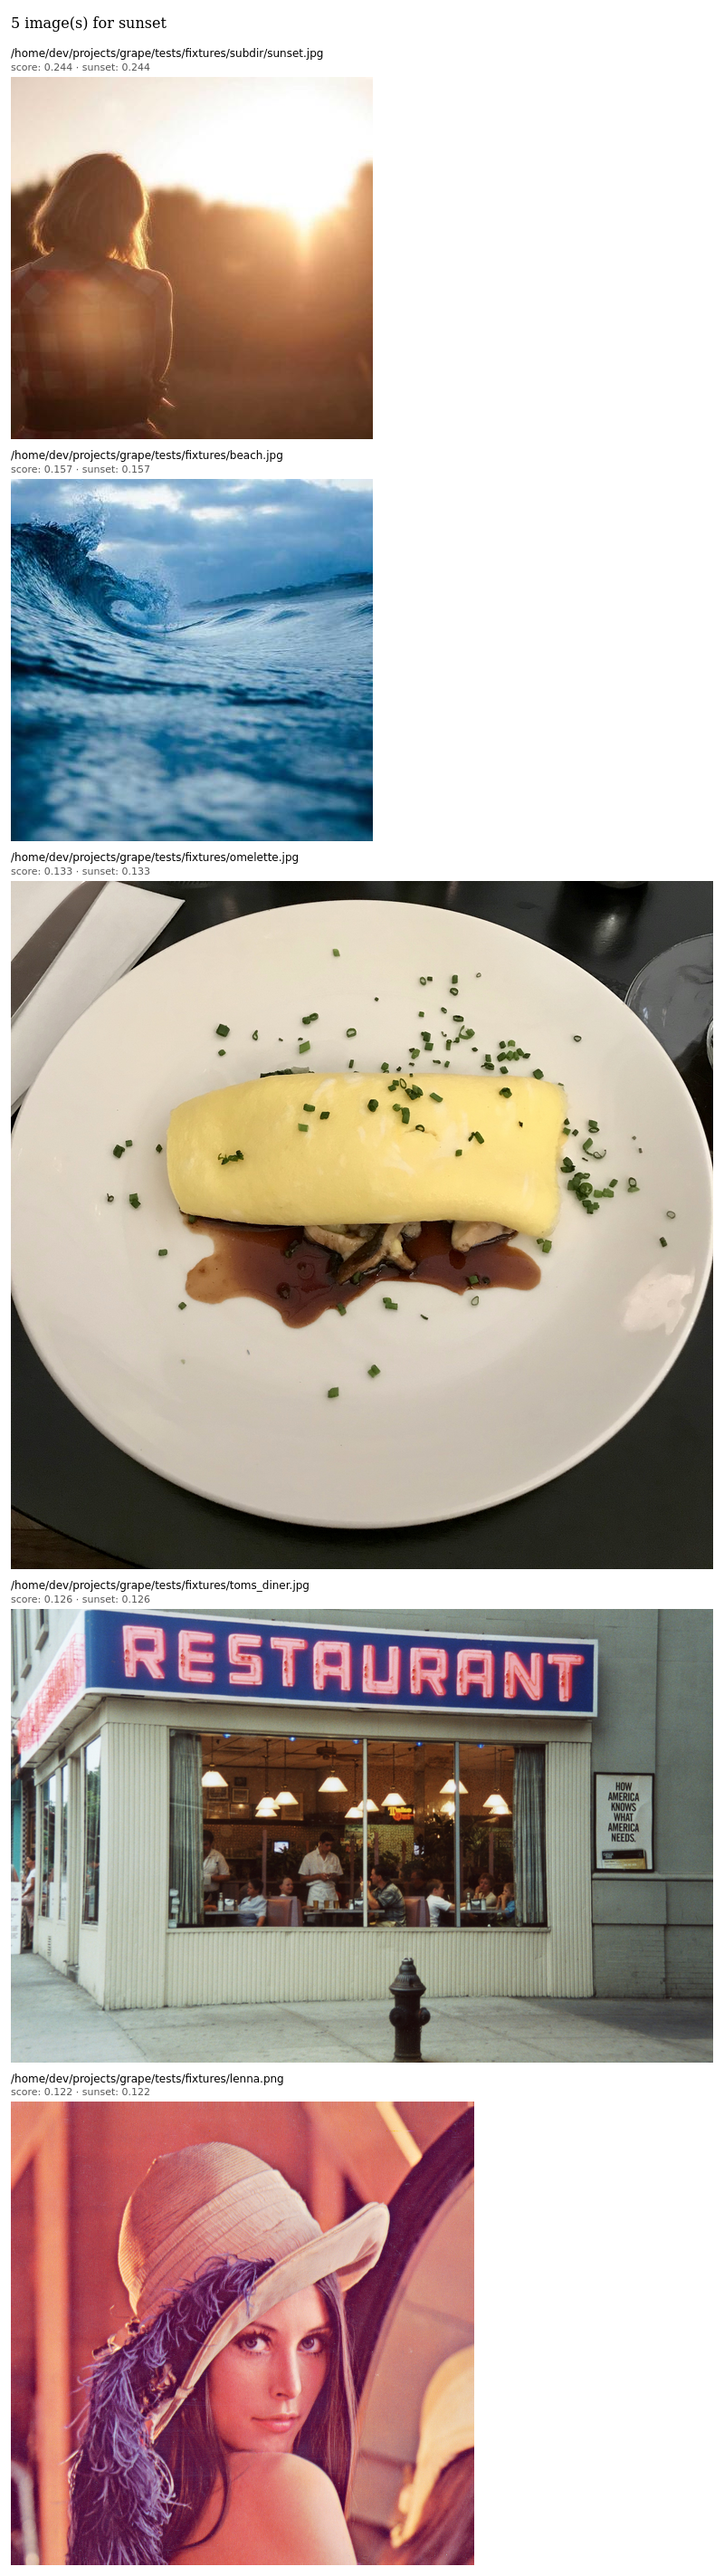
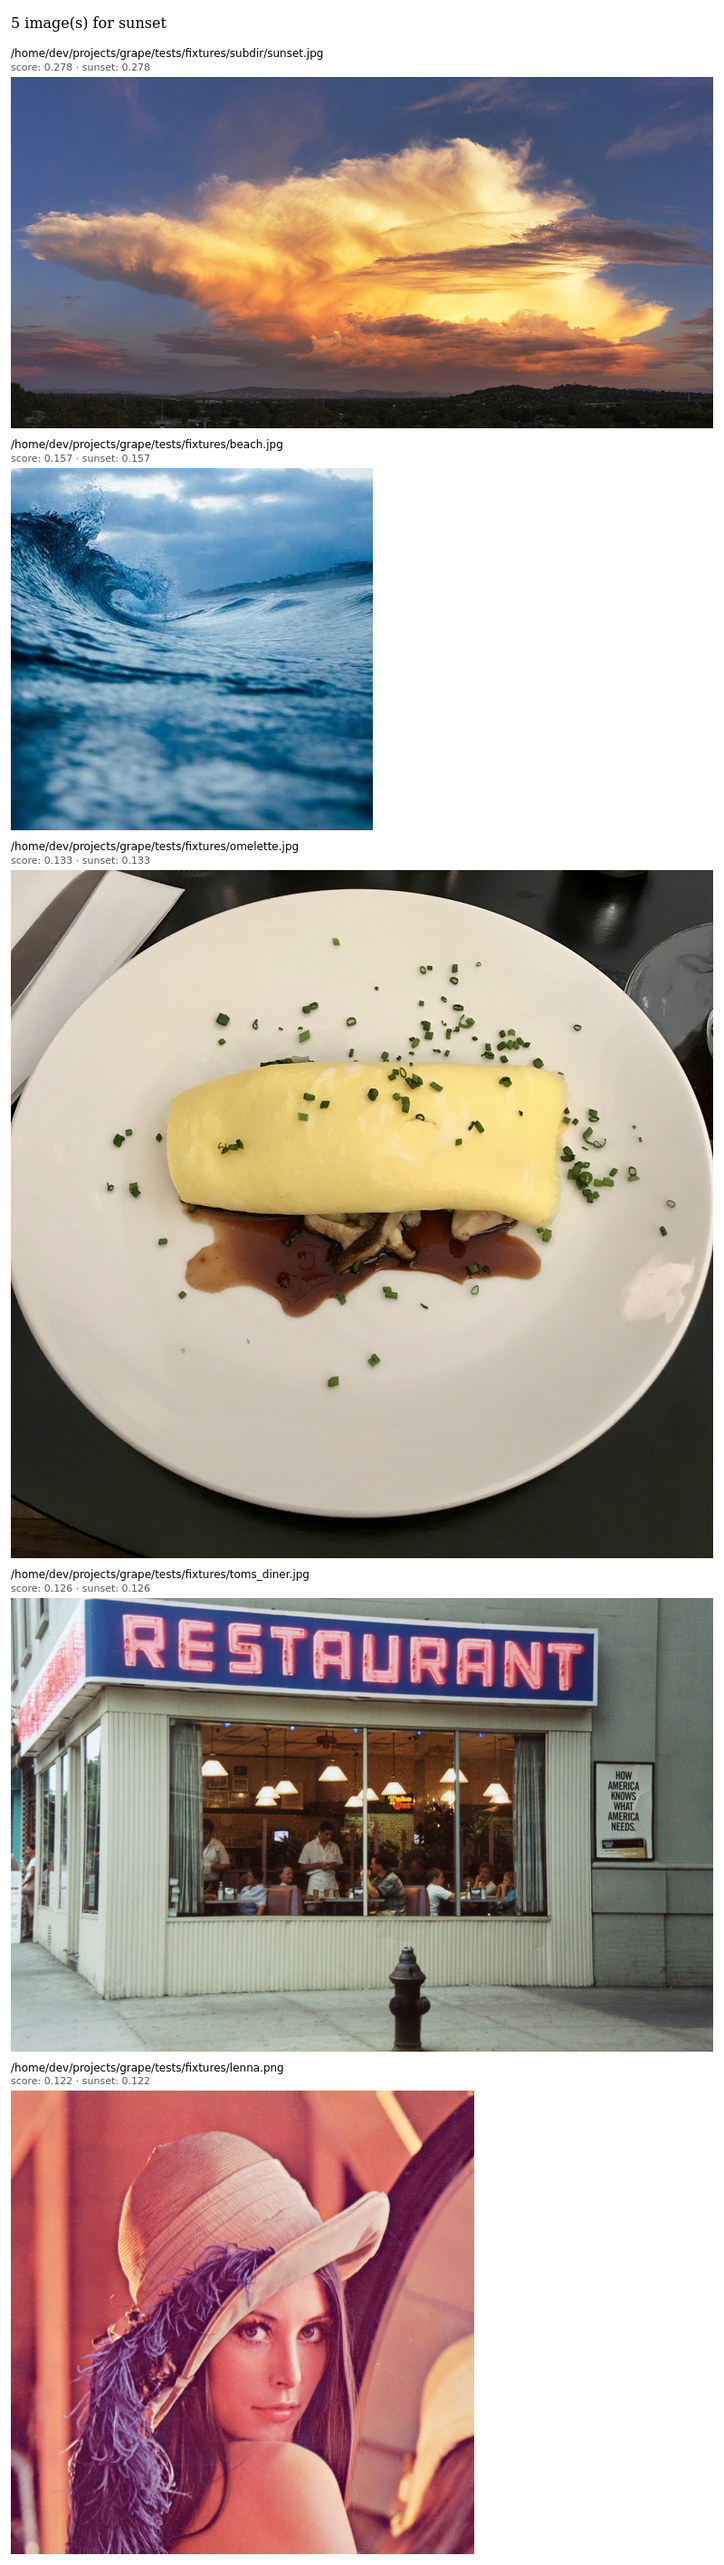
Regenerate README screenshot with current fixtures; guard against drift
The committed docs/screenshot_view.png was rendered before the sunset
fixture was swapped, so it showed the old image. Regenerate against
current fixtures (cumulonimbus sunset now appears as the top result).

Add a guard: generate_screenshots.py now writes a sha256 of its inputs
(fixture bytes, HTML template, script, model tag) alongside the PNG.
tests/test_docs.py recomputes the hash and fails if the committed value
is stale, pointing the developer at the regenerate command.

diff --git a/docs/generate_screenshots.py b/docs/generate_screenshots.py
@@ -10,6 +10,7 @@ Produces:
 Requirements: playwright (with firefox installed).
 """
 
+import hashlib
 import subprocess
 import sys
 import tempfile
@@ -19,6 +20,39 @@ REPO = Path(__file__).resolve().parent.parent
 FIXTURES = REPO / "tests" / "fixtures"
 DOCS = REPO / "docs"
 MODEL = "ViT-B-32/laion2b_s34b_b79k"
+
+
+def screenshot_inputs_hash() -> str:
+    """Hash of everything the rendered screenshot depends on.
+
+    If this changes, docs/screenshot_view.png is stale and must be
+    regenerated with this script.  A test (tests/test_docs.py) guards
+    against drift by comparing this hash to docs/screenshot_view.inputs.sha256.
+    """
+    h = hashlib.sha256()
+
+    # All fixture files, in sorted order.
+    for p in sorted(FIXTURES.rglob("*")):
+        if p.is_file() and not p.name.startswith("."):
+            h.update(str(p.relative_to(FIXTURES)).encode())
+            h.update(b"\0")
+            h.update(p.read_bytes())
+            h.update(b"\0")
+
+    # The HTML template used to render --view.
+    from grape.cli import _HTML_TEMPLATE_TEXT
+    h.update(b"template\0")
+    h.update(_HTML_TEMPLATE_TEXT.encode())
+
+    # The generator script itself (this file).
+    h.update(b"generator\0")
+    h.update(Path(__file__).read_bytes())
+
+    # The model used to score -- embedding changes would change results.
+    h.update(b"model\0")
+    h.update(MODEL.encode())
+
+    return h.hexdigest()
 
 
 def generate_view_screenshot() -> None:
@@ -71,7 +105,10 @@ def generate_view_screenshot() -> None:
         page.screenshot(path=str(out), full_page=True)
         browser.close()
         html_path.unlink()
+    hash_file = DOCS / "screenshot_view.inputs.sha256"
+    hash_file.write_text(screenshot_inputs_hash() + "\n")
     print(f"wrote {out}")
+    print(f"wrote {hash_file}")
 
 
 if __name__ == "__main__":

diff --git a/tests/test_docs.py b/tests/test_docs.py
@@ -1,0 +1,35 @@
+"""Guard against docs/screenshot_view.png drifting out of date.
+
+The screenshot is a static render of grape's --view HTML over the test
+fixtures.  When fixtures, the HTML template, the screenshot generator,
+or the model change, the image becomes stale.  We hash the inputs and
+store the digest next to the PNG; this test compares the committed
+digest to the current inputs.
+
+If this fails, run `python docs/generate_screenshots.py` and commit the
+updated PNG + .inputs.sha256 sidecar.
+"""
+
+from pathlib import Path
+
+REPO = Path(__file__).resolve().parent.parent
+
+
+def test_screenshot_view_is_current() -> None:
+    import importlib.util
+    script = REPO / "docs" / "generate_screenshots.py"
+    sidecar = REPO / "docs" / "screenshot_view.inputs.sha256"
+
+    spec = importlib.util.spec_from_file_location("generate_screenshots", script)
+    assert spec is not None and spec.loader is not None
+    mod = importlib.util.module_from_spec(spec)
+    spec.loader.exec_module(mod)
+
+    actual = mod.screenshot_inputs_hash()
+    expected = sidecar.read_text().strip()
+    assert actual == expected, (
+        f"docs/screenshot_view.png inputs have drifted.\n"
+        f"  expected: {expected}\n"
+        f"  actual:   {actual}\n"
+        f"Regenerate: python docs/generate_screenshots.py"
+    )
